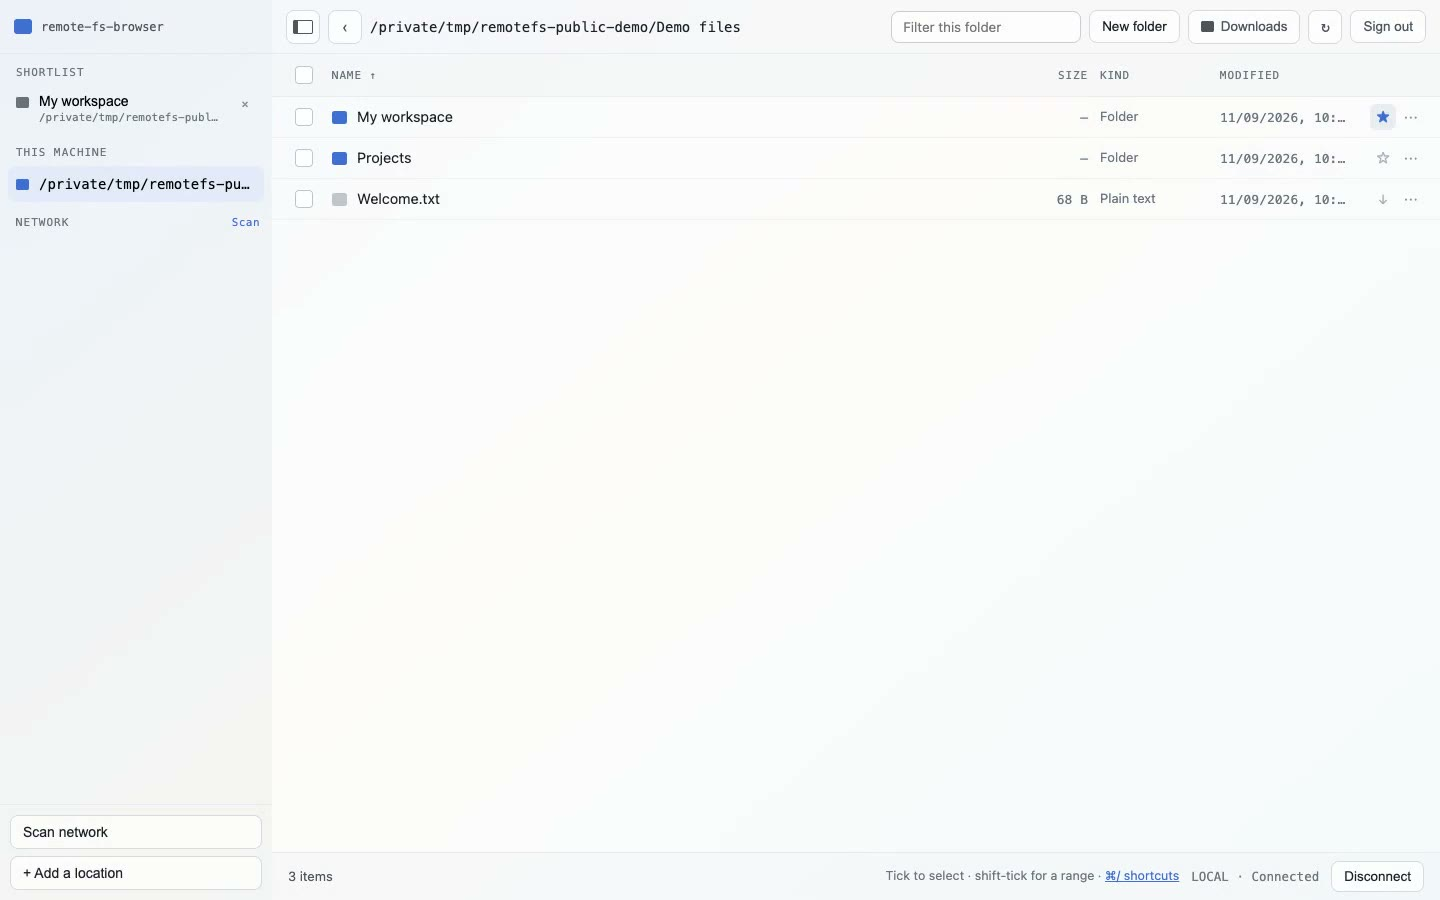
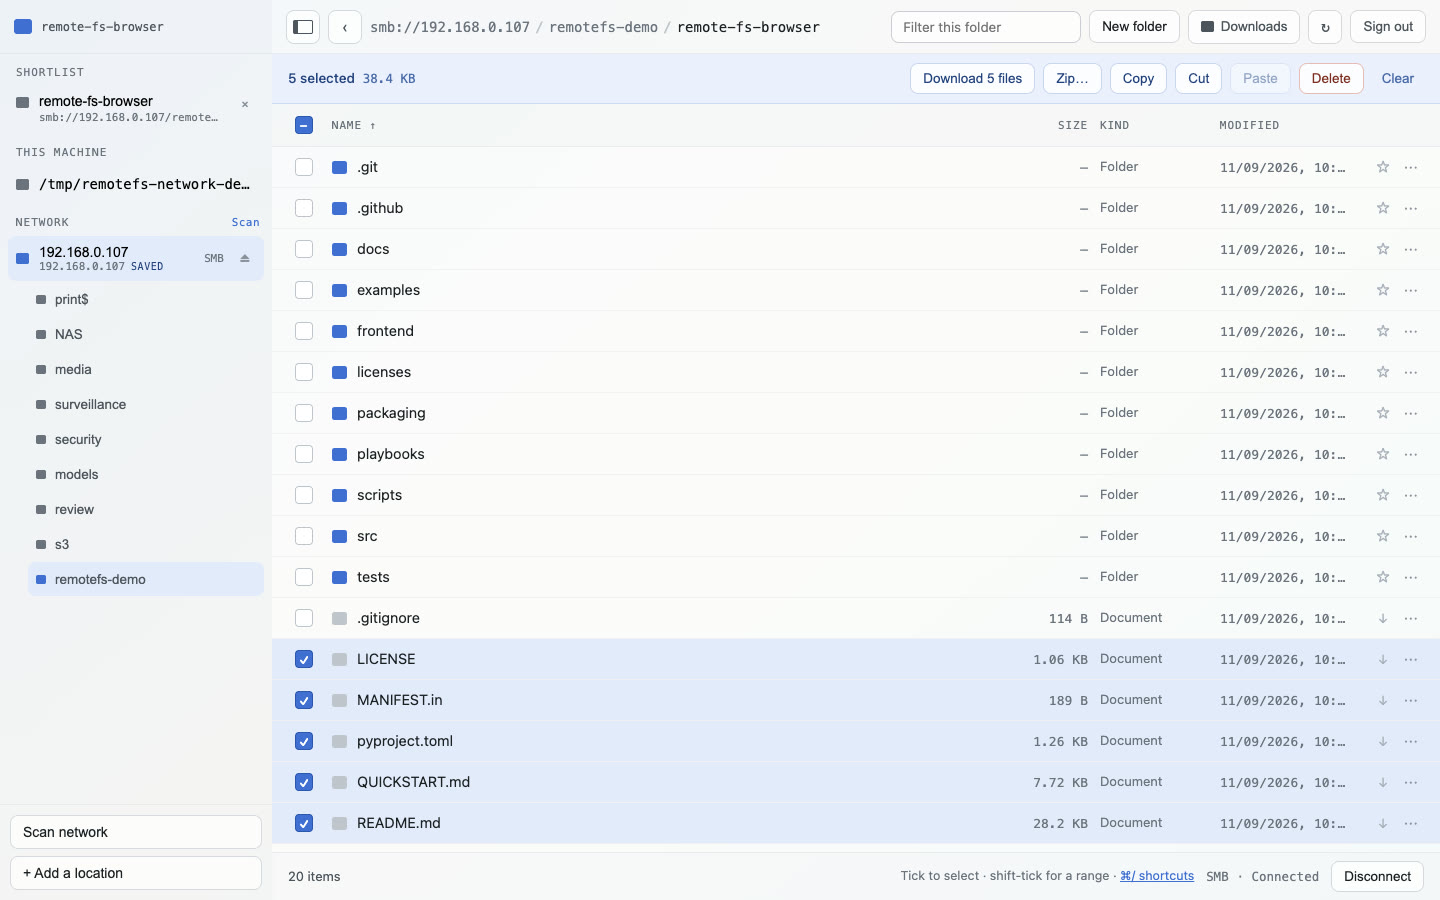
Publish focused network demo and fix HTTP-origin downloads (#9)
* Demonstrate network workflows and fix HTTP-origin downloads

* Tighten feature demo and make SMB proof explicit

---------

diff --git a/frontend/manager.test.js b/frontend/manager.test.js
@@ -76,3 +76,18 @@ test('narrow viewport sidebar overlays the list and closes when navigating',()=>
  m.state.collapsed=false;m.goTo(m.fromDescriptor({type:'local',root:'/tmp/files'}))
  assert.equal(m.state.collapsed,true)
 })
+
+
+test('direct downloads work on HTTP origins without crypto.randomUUID',async()=>{
+ const httpScope={...scope,window:{innerWidth:1280},crypto:{getRandomValues:globalThis.crypto.getRandomValues.bind(globalThis.crypto)}}
+ vm.runInNewContext(readFileSync(new URL('../src/remote_fs_browser/web/manager.js',import.meta.url),'utf8'),httpScope)
+ const HttpManager=httpScope.window.createRemoteFsManager(Logic,{createRef:()=>({})})
+ const m=new HttpManager();m.state.place=m.fromDescriptor({type:'smb',host:'nas',share:'files',path:'/repo'})
+ m.sessionFor=async()=>({id:'session'})
+ await m.startBatch([{name:'README.md',path:'/repo/README.md',size:42}])
+ assert.equal(m.state.view,'transfers')
+ assert.equal(m.state.transfers.length,1)
+ assert.match(m.state.transfers[0].id,/^[0-9a-f]{32}$/)
+ assert.equal(m.state.transfers[0].parts[0].relative,'/repo/README.md')
+ assert.equal(m.state.transfers[0].status,'ready')
+})

diff --git a/src/remote_fs_browser/web/manager.js b/src/remote_fs_browser/web/manager.js
@@ -200,7 +200,7 @@ class Component extends DCLogic {
     const fresh=parts.filter(p=>!this.alreadyGrabbed(p.path,true))
     if(!fresh.length){this.setState({view:'transfers'});return}
     const total=fresh.reduce((n,p)=>n+p.size,0)
-    this.setState({transfers:[{id:crypto.randomUUID(),kind:'files',name:fresh.length===1?fresh[0].name:`${fresh.length} files`,parts:fresh,total,packed:total,stage:'ready',status:'ready',open:true,purged:false,store:'Streamed from source'},...this.state.transfers],view:'transfers',confirm:null})
+    this.setState({transfers:[{id:Array.from(crypto.getRandomValues(new Uint8Array(16)), byte => byte.toString(16).padStart(2, '0')).join(''),kind:'files',name:fresh.length===1?fresh[0].name:`${fresh.length} files`,parts:fresh,total,packed:total,stage:'ready',status:'ready',open:true,purged:false,store:'Streamed from source'},...this.state.transfers],view:'transfers',confirm:null})
   }
   componentDidUpdate() {
     if (this.state.place !== this.loadedPlace) {

diff --git a/scripts/build_docs.py b/scripts/build_docs.py
@@ -8,20 +8,20 @@ root = Path(__file__).resolve().parents[1]
 out = root / '_site'
 out.mkdir(exist_ok=True)
 style = '''body{margin:0;background:#10171e;color:#e4eaf0;font:17px/1.7 system-ui,sans-serif}main{max-width:920px;margin:auto;padding:48px 24px}a{color:#69ddd0}nav{display:flex;gap:24px;flex-wrap:wrap;margin-bottom:48px}h1{font-size:clamp(36px,6vw,60px);line-height:1.15}h2{margin-top:48px}pre{padding:20px;background:#1c2934;overflow:auto;border-radius:10px}code{font-size:.9em}table{display:block;overflow:auto;border-collapse:collapse}td,th{border:1px solid #42525f;padding:10px;text-align:left}video{width:100%;border-radius:12px;background:#000}blockquote{border-left:3px solid #69ddd0;padding-left:20px}footer{margin-top:60px;color:#aab8c5}img{max-width:100%}'''
-video = 'https://github.com/mightymorgs/remote-fs-browser/releases/download/v0.2.1/remotefs-demo.mp4'
+video = 'https://github.com/mightymorgs/remote-fs-browser/releases/download/v0.2.1/remotefs-feature-demo.mp4'
 home = f'''# Your files. In your browser.
 
-remotefs is an open source file manager for local folders, SMB shares and NFS exports. Browse, edit, upload and download through a browser, with a Python API for integration.
+Install one Python service on a computer that can reach your shares. Open a browser from another device, from anywhere with a permitted connection to the service. Browse local folders, SMB shares and NFS exports over your LAN, VPN, SSH tunnel or HTTPS setup. No operating-system mounts or remotefs agents on each file server are required.
 
 [Get started →](quickstart.html) · [Full features and API reference](reference.html)
 
 ## Watch it install and run
 
-<video controls preload="metadata" poster="demo-poster.jpg" aria-label="remotefs installation and file management demonstration"><source src="{video}" type="video/mp4"><track default kind="captions" src="demo.vtt" srclang="en" label="English"></video>
+<video controls preload="metadata" poster="demo-poster.jpg" aria-label="remotefs installation and file management demonstration"><source src="{video}" type="video/mp4"><track kind="captions" src="demo.vtt" srclang="en" label="English"></video>
 
 [Download the video]({video}) · [Read the demonstration transcript](demo.html)
 
-The recording uses the published 0.2.1 package on macOS, with Python and pipx already installed. It shows local demo files; SMB and NFS setup are covered in the quickstart.
+A 70-second feature demo using published 0.2.1: a short installation excerpt, real LAN discovery and SMB browsing through a Linux service. It shows subnet selection, saved locations, repo files, right-click actions, Shift-click selection, a verified SMB download and Unmount. This recording uses SSH over Tailscale; that is one connection option, not a requirement. NFS uses libnfs 6+.
 
 ## Install
 

diff --git a/docs/site/demo.md b/docs/site/demo.md
@@ -1,13 +1,38 @@
-# Installation demonstration
+# Installation and network demonstration
 
-This silent recording shows real command output and browser interactions on macOS. Python 3.11+ and pipx are already installed. The installation uses isolated pipx and application configuration directories, and all files and credentials are disposable examples.
+The recording uses the published 0.2.1 package and real browser interactions. The opening includes a short installation excerpt on macOS. The network section uses the same package on a Linux hypervisor, reached from the Mac through an SSH tunnel over Tailscale. The SMB server is SmartNAS, with a temporary read-only share containing a clean checkout of this public repository.
 
-1. Install the published package with `pipx install remote-fs-browser==0.2.1`.
-2. Create the demo account using `remotefs account --config demo.json --username demo --password-stdin`. The demo password is supplied through standard input and is not displayed.
-3. Start the application with `remotefs serve --config demo.json --root "Demo files" --no-defaults --port 8110`. This limits the example to a single local folder.
-4. Open `http://127.0.0.1:8110/` and sign in.
-5. Browse the demo files, open `Welcome.txt`, edit its contents and save.
-6. Create `My workspace`, add it to favourites and browse it.
-7. Return to the root and download `Welcome.txt`. The recording script verifies that the downloaded bytes match the saved file.
+## Short installation excerpt
 
-The recording demonstrates local file management. For remote SMB/NFS connections, multipart archives and installation on other platforms, see the [quickstart](QUICKSTART.md).
+The feature cut briefly shows installing `remote-fs-browser==0.2.1` with pipx. Python and pipx are already installed. The longer [installation and local-file walkthrough](https://github.com/mightymorgs/remote-fs-browser/releases/download/v0.2.1/remotefs-demo.mp4) also shows account setup, editing, folder creation and a local-file download.
+
+The 70-second feature cut removes scan waits and repeated navigation. Feature labels are built into the MP4, including explicit SMB connection and download proof. These are edited recordings of actual interactions; filesystem responses are not simulated.
+
+## Network workflow
+
+1. Sign in to the Linux service from the Mac browser over the Tailscale SSH tunnel.
+2. Scan `192.168.0.0/24` for SMB/NFS services. The table has separate DNS, NetBIOS and IP columns; names appear only when the network supplies them.
+3. Select `192.168.122.0/24`, the hypervisor’s NAT VM subnet, and scan it. No SMB/NFS services answered on that subnet during this recording. Discovery finds file services, not every running VM.
+4. Scan the NAS address, select **Map**, enter SMB credentials and save them.
+5. Open the `remotefs-demo` share and add its repo folder to the shortlist.
+6. Browse `README.md`, then open the Python source under `src/remote_fs_browser/cli.py` directly from the NAS.
+7. Click one checkbox, then Shift-click another to select a range of files.
+8. Right-click `README.md`, choose **Download** and save it. The recording script compares the downloaded file with the NAS copy byte for byte.
+9. Reload the page and reopen the saved network location from the shortlist.
+10. Map the server again using its saved credentials, then **Unmount** it. The recording checks that the session deletion succeeds and the sidebar mapping disappears.
+
+## SMB proof
+
+The service connected to `smb://192.168.0.107/remotefs-demo`. The browser downloaded `remote-fs-browser/README.md` through that SMB session, and the recording script compared the downloaded bytes with the NAS source over SSH. They matched. The downloaded file also matches the README in the public v0.2.1 tag:
+
+```text
+SHA-256: 2166f9029173896511b2feeb5c98f255df7d840c323ddb998291a88ecc4036d6
+```
+
+## How it works
+
+Open a browser from another device, from anywhere. One Python service connects to the shares its host can reach. The viewing device needs a browser and a permitted connection to that service; file servers need no remotefs agent. Tailscale can carry the browser-to-service connection without installing Tailscale on every LAN file server.
+
+**Map** and **Unmount** manage application sessions. They do not create or remove operating-system mounts on either computer. Saved locations and credentials persist separately from page-local mappings. Network routes, policy, share credentials and filesystem permissions still apply.
+
+The service uses Python packages for local access and SMB. NFS additionally uses libnfs 6+; the browser interface uses JavaScript. The network portion demonstrates SMB; NFS connection setup is covered in the quickstart. See the [quickstart](QUICKSTART.md#one-service-network-access-through-tailscale) for setup and the complete platform instructions.

diff --git a/QUICKSTART.md b/QUICKSTART.md
@@ -109,6 +109,32 @@ Open http://127.0.0.1:8080/ on the viewing computer. Keep the SSH connection ope
 
 For a trusted network or encrypted VPN, you can bind the service to a specific interface with `remotefs serve --bind YOUR_SERVER_IP`. Plain HTTP does not encrypt the login or file contents; use an encrypted tunnel or HTTPS when crossing an untrusted network. No firewall rules are created automatically.
 
+### One service, network access through Tailscale
+
+Install remotefs on one computer that can reach your shares. Connect your viewing computer and the service host to Tailscale. On the service host, start remotefs with the networks it should expose:
+
+```sh
+remotefs serve --allow-network 192.168.0.0/24 --allow-network 192.168.122.0/24
+```
+
+On the viewing computer, open an SSH tunnel to that host’s Tailscale hostname or address:
+
+```sh
+ssh -N -L 8080:127.0.0.1:8080 YOUR_USER@YOUR_SERVER_TAILSCALE_NAME
+```
+
+Open `http://127.0.0.1:8080/` in your browser and sign in. Keep the SSH connection open. This is the arrangement used in the network demonstration: a Mac browser, an SSH connection over Tailscale, and a Linux service reaching the LAN and VM subnet. SSH must be available and permitted on the service host.
+
+For a browser HTTPS URL without an SSH tunnel, keep remotefs on loopback and configure [Tailscale Serve](https://tailscale.com/docs/features/tailscale-serve). Your tailnet access rules must permit the connection. Use HTTPS or the localhost tunnel for published 0.2.1: its download queue depends on a browser API unavailable on plain-HTTP network origins. The current source checkout fixes that compatibility issue.
+
+The service host connects to SMB/NFS servers on your behalf. Those file servers do not need remotefs or Tailscale installed if the service host can already reach them over the LAN. A subnet router is not needed for this browser-to-service arrangement; it is needed only if your chosen network path requires routing through one. Remotefs does not create routes or bypass server permissions.
+
+Open **Scan network** and change **Ranges to probe** to select a permitted subnet. For example, `192.168.122.0/24` is commonly a hypervisor’s NAT VM network. The service must run on a machine with a route to that subnet. VM and VPN networks are excluded from automatic discovery defaults, so permit them explicitly with `--allow-network`.
+
+**Map** creates an application connection. **Unmount** closes it; neither action mounts a filesystem in the operating system on the service host or viewing computer. Save host credentials and add a network folder to the shortlist to reopen it after a page reload. Sidebar mappings themselves last only for the current page.
+
+Remotefs runs as a Python service with a browser-based JavaScript interface. Local access and SMB use Python packages; NFS additionally uses libnfs 6+. No kernel SMB/NFS mount or drive mapping is required.
+
 ## Background operation and updates
 
 On macOS, create your account first, stop the foreground service, then run:

diff --git a/docs/validation/2026-09-11-network-demo.md b/docs/validation/2026-09-11-network-demo.md
@@ -1,0 +1,28 @@
+# Network demonstration — 11 September 2026
+
+The expanded video uses the published `remote-fs-browser==0.2.1` package. The local installation segment runs on macOS. The network segment runs the Python service on a Linux hypervisor, with Chromium on the Mac accessing it through an SSH tunnel over Tailscale. A temporary, read-only Samba share on SmartNAS contains a clean checkout of the public v0.2.1 repository.
+
+Verified through actual Chromium interactions:
+
+- LAN scan of `192.168.0.0/24` finds SMB/NFS services.
+- Changing the scanner to `192.168.122.0/24` completes a second subnet scan. No SMB/NFS services answered there; the running VM’s ports 445 and 2049 also timed out in a direct connection check.
+- Mapping the NAS, saving SMB credentials, enumerating shares and browsing the temporary share.
+- Saving the repo folder to the shortlist and reopening it after a page reload.
+- Previewing the remote README and `src/remote_fs_browser/cli.py`.
+- Shift-clicking checkboxes selects a range containing multiple files.
+- Right-clicking the README opens the action menu; downloading it produces bytes identical to the NAS copy.
+- Reusing saved credentials to map the NAS after reload.
+- Unmount sends a successful session DELETE and removes the sidebar mapping.
+- The service host’s CIFS/NFS mount list is identical before and after the workflow.
+
+## Compatibility issue discovered
+
+On a plain-HTTP network origin, Chromium does not expose `crypto.randomUUID`. The published download queue calls that method and fails before displaying its transfer. The source fix generates its local transfer identifier with `crypto.getRandomValues`, which is available on these origins.
+
+Validation: all 14 frontend tests pass, including a regression that constructs a download with `randomUUID` absent. An actual Chromium test against the HTTP Tailscale address, serving the patched manager asset, also downloads a file successfully. This fix is in source; the video uses the unmodified published package over the localhost SSH tunnel.
+
+Tailscale Serve was attempted, but certificate issuance failed on the host. The temporary Serve configuration was removed. The demo does not claim to have validated that HTTPS endpoint.
+
+The temporary NAS share and demo services are removed after recording. No personal file contents or passwords are included in the public recording.
+
+The published feature cut is 70.32 seconds. It removes idle waits, retains the real action/result shots, adds built-in feature labels and shows the verified SMB download hash. The full source recording remains separate from the edited movie.

diff --git a/README.md b/README.md
@@ -6,6 +6,8 @@ Run remotefs on a workstation, server or homelab node to access the storage that
 
 Version 0.2.1 introduces password login, file write operations and staged multipart downloads. The [cross-host dogfood report](docs/validation/2026-09-11-dogfood.md) records the completed browser workflows and network download checks. See [validation](VALIDATION.md) for scope and limitations.
 
+Install one Python service on a computer that can reach your shares, then use it from a browser—including over Tailscale. File servers need no remotefs agent. SMB/NFS connections stay inside the app: no operating-system mounts are created on the service host or viewing computer. Access is limited to reachable, permitted networks and valid server credentials. NFS requires libnfs 6+; see the [Tailscale quickstart](QUICKSTART.md#one-service-network-access-through-tailscale).
+
 ## What is included
 
 - Local, SMB and NFS browsing, metadata, uploads, downloads, new files/folders, text editing, copy, move, rename and recursive deletion, subject to policy and filesystem permissions.
@@ -14,7 +16,7 @@ Version 0.2.1 introduces password login, file write operations and staged multip
 - Direct file downloads or host-staged ZIP64 archives, optional byte splitting, HTTP Range support, packing pause/resume and explicit purge.
 - A Python SDK, authenticated HTTP API and embeddable directory picker with credential-free descriptors.
 
-[Documentation site](https://mightymorgs.github.io/remote-fs-browser/) · [Installation demo](https://mightymorgs.github.io/remote-fs-browser/#watch-it-install-and-run)
+[Documentation site](https://mightymorgs.github.io/remote-fs-browser/) · [Product demo](https://mightymorgs.github.io/remote-fs-browser/#watch-it-install-and-run)
 
 ## Quick start
 
